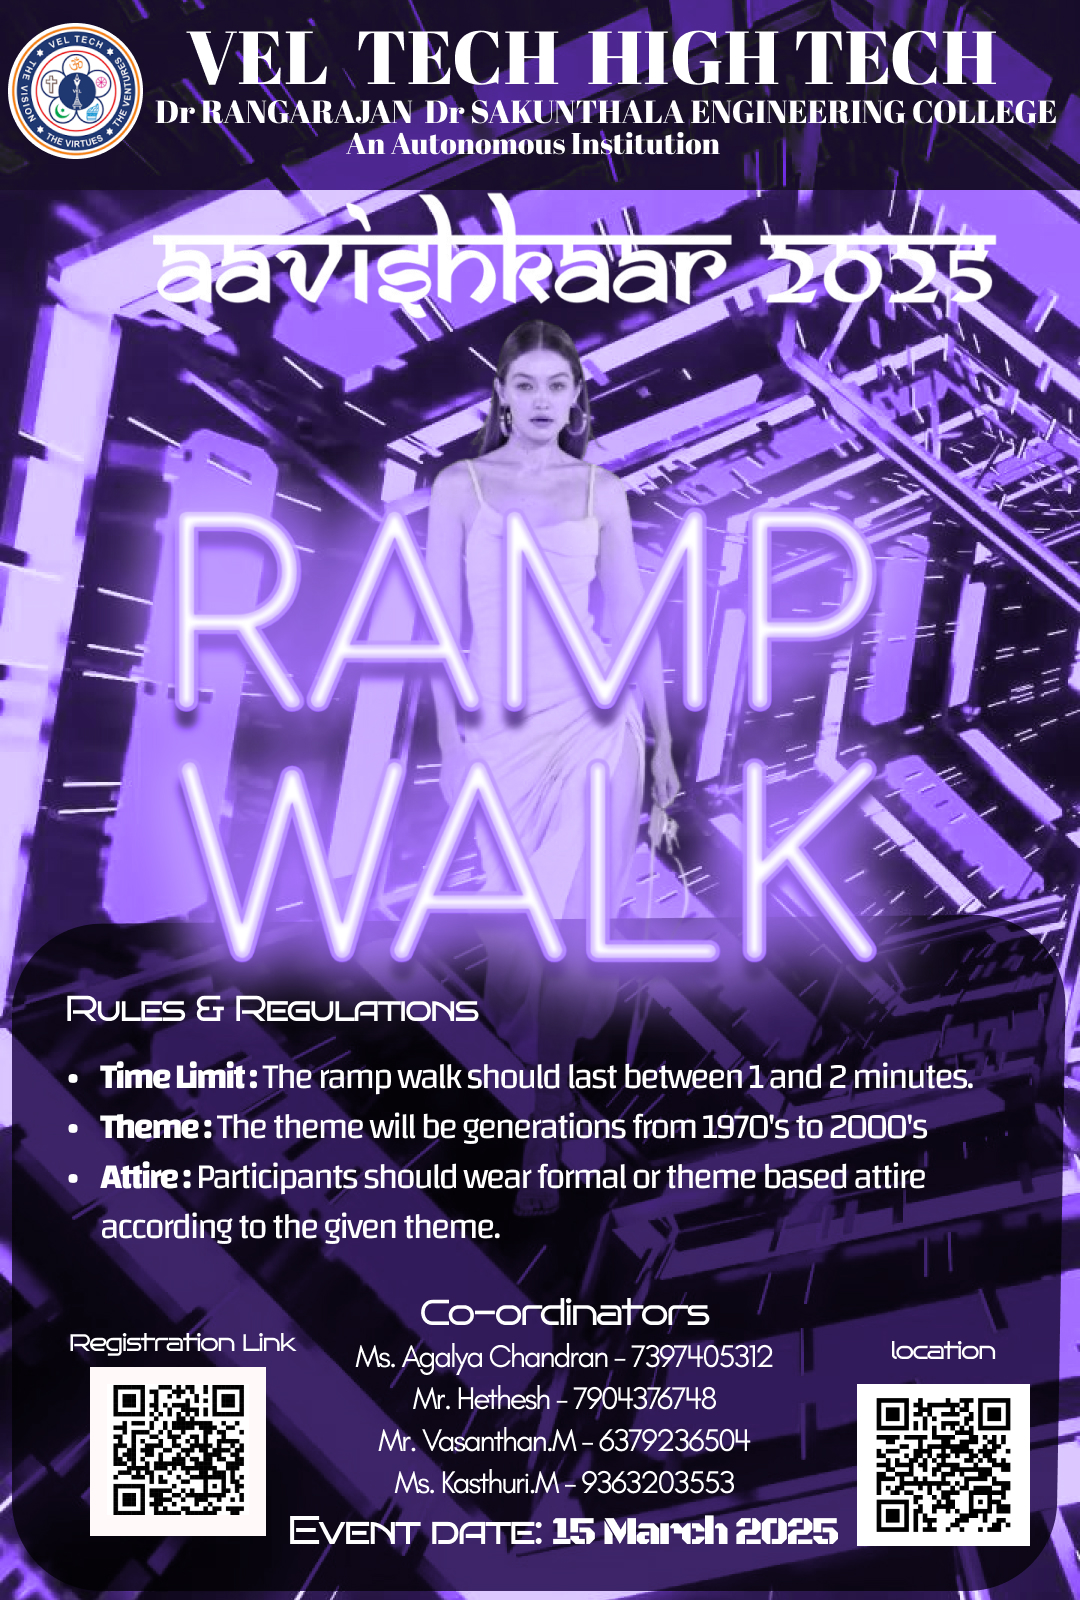
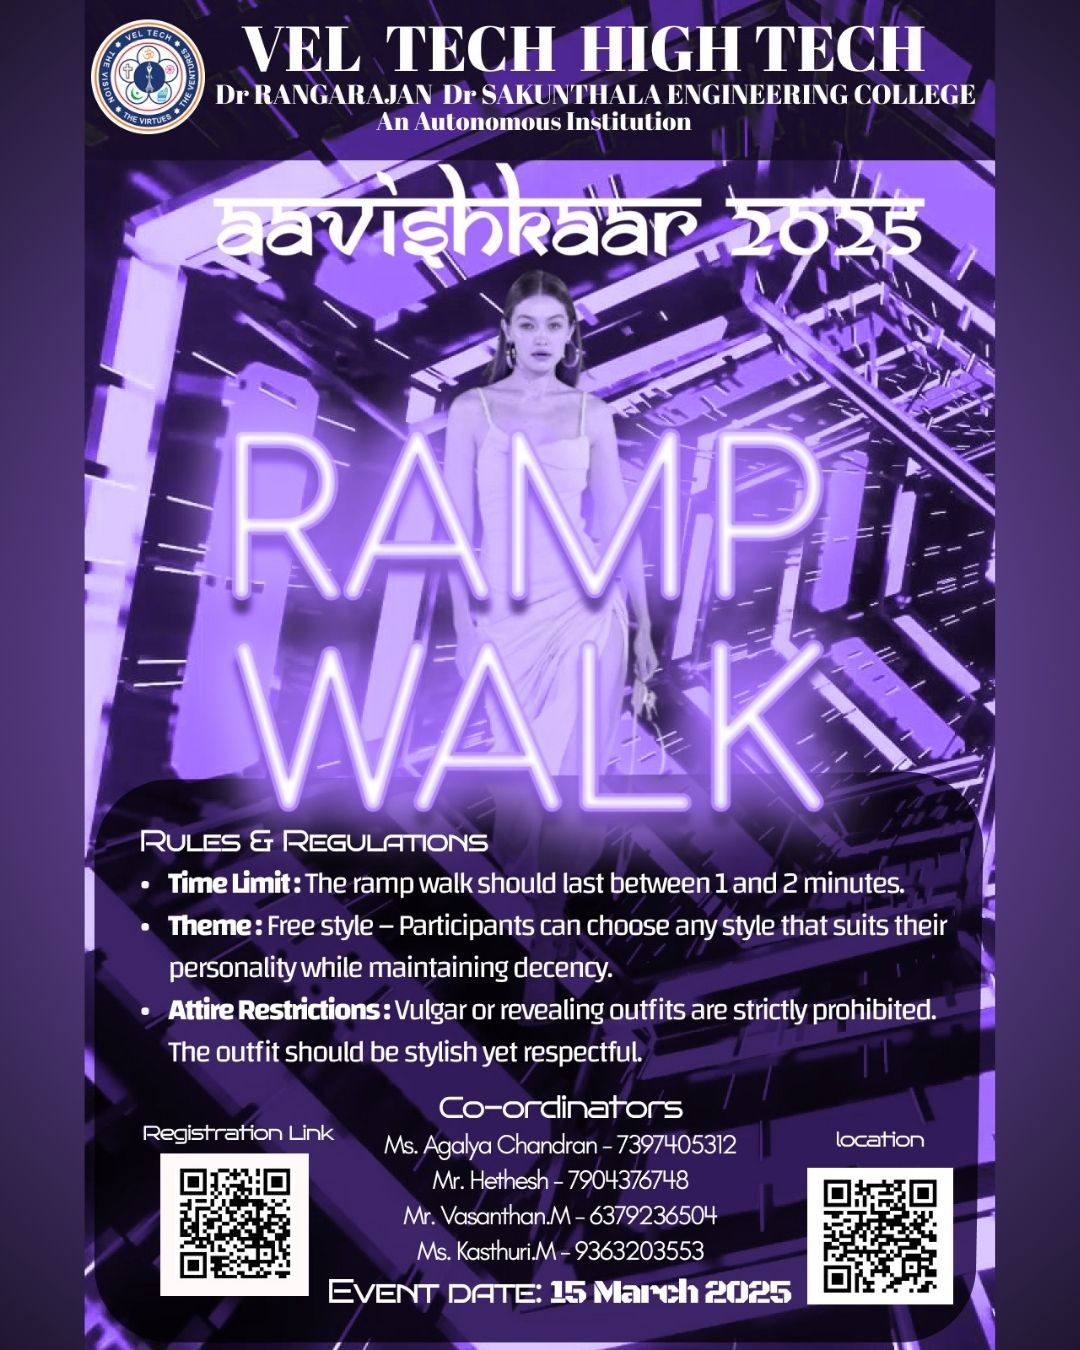
ramp walk update

diff --git a/rampwalk.html b/rampwalk.html
@@ -223,10 +223,10 @@
               <p><b class="text-yellow-300">Time Limit:</b> Showcasing is limited to 1 and 2 minutes on stage</p>
             </li>
             <li>
-              <p><b class="text-yellow-300">Theme:</b> The theme will be generations from 1970's to 2000's</p>
+              <p><b class="text-yellow-300">Theme:</b> Free style – Participants can choose any style that suits their personality while maintaining decency</p>
             </li>
             <li>
-              <p><b class="text-yellow-300">Attire:</b> Participants should wear theme-based attire according to the selected theme (mention ins form)</p>
+              <p><b class="text-yellow-300">Attire Restrictions:</b> Vulgar or revealing outfits are strictly prohibited. The outfit should be stylish yet respectful</p>
             </li>
           </ul>
         </div>
